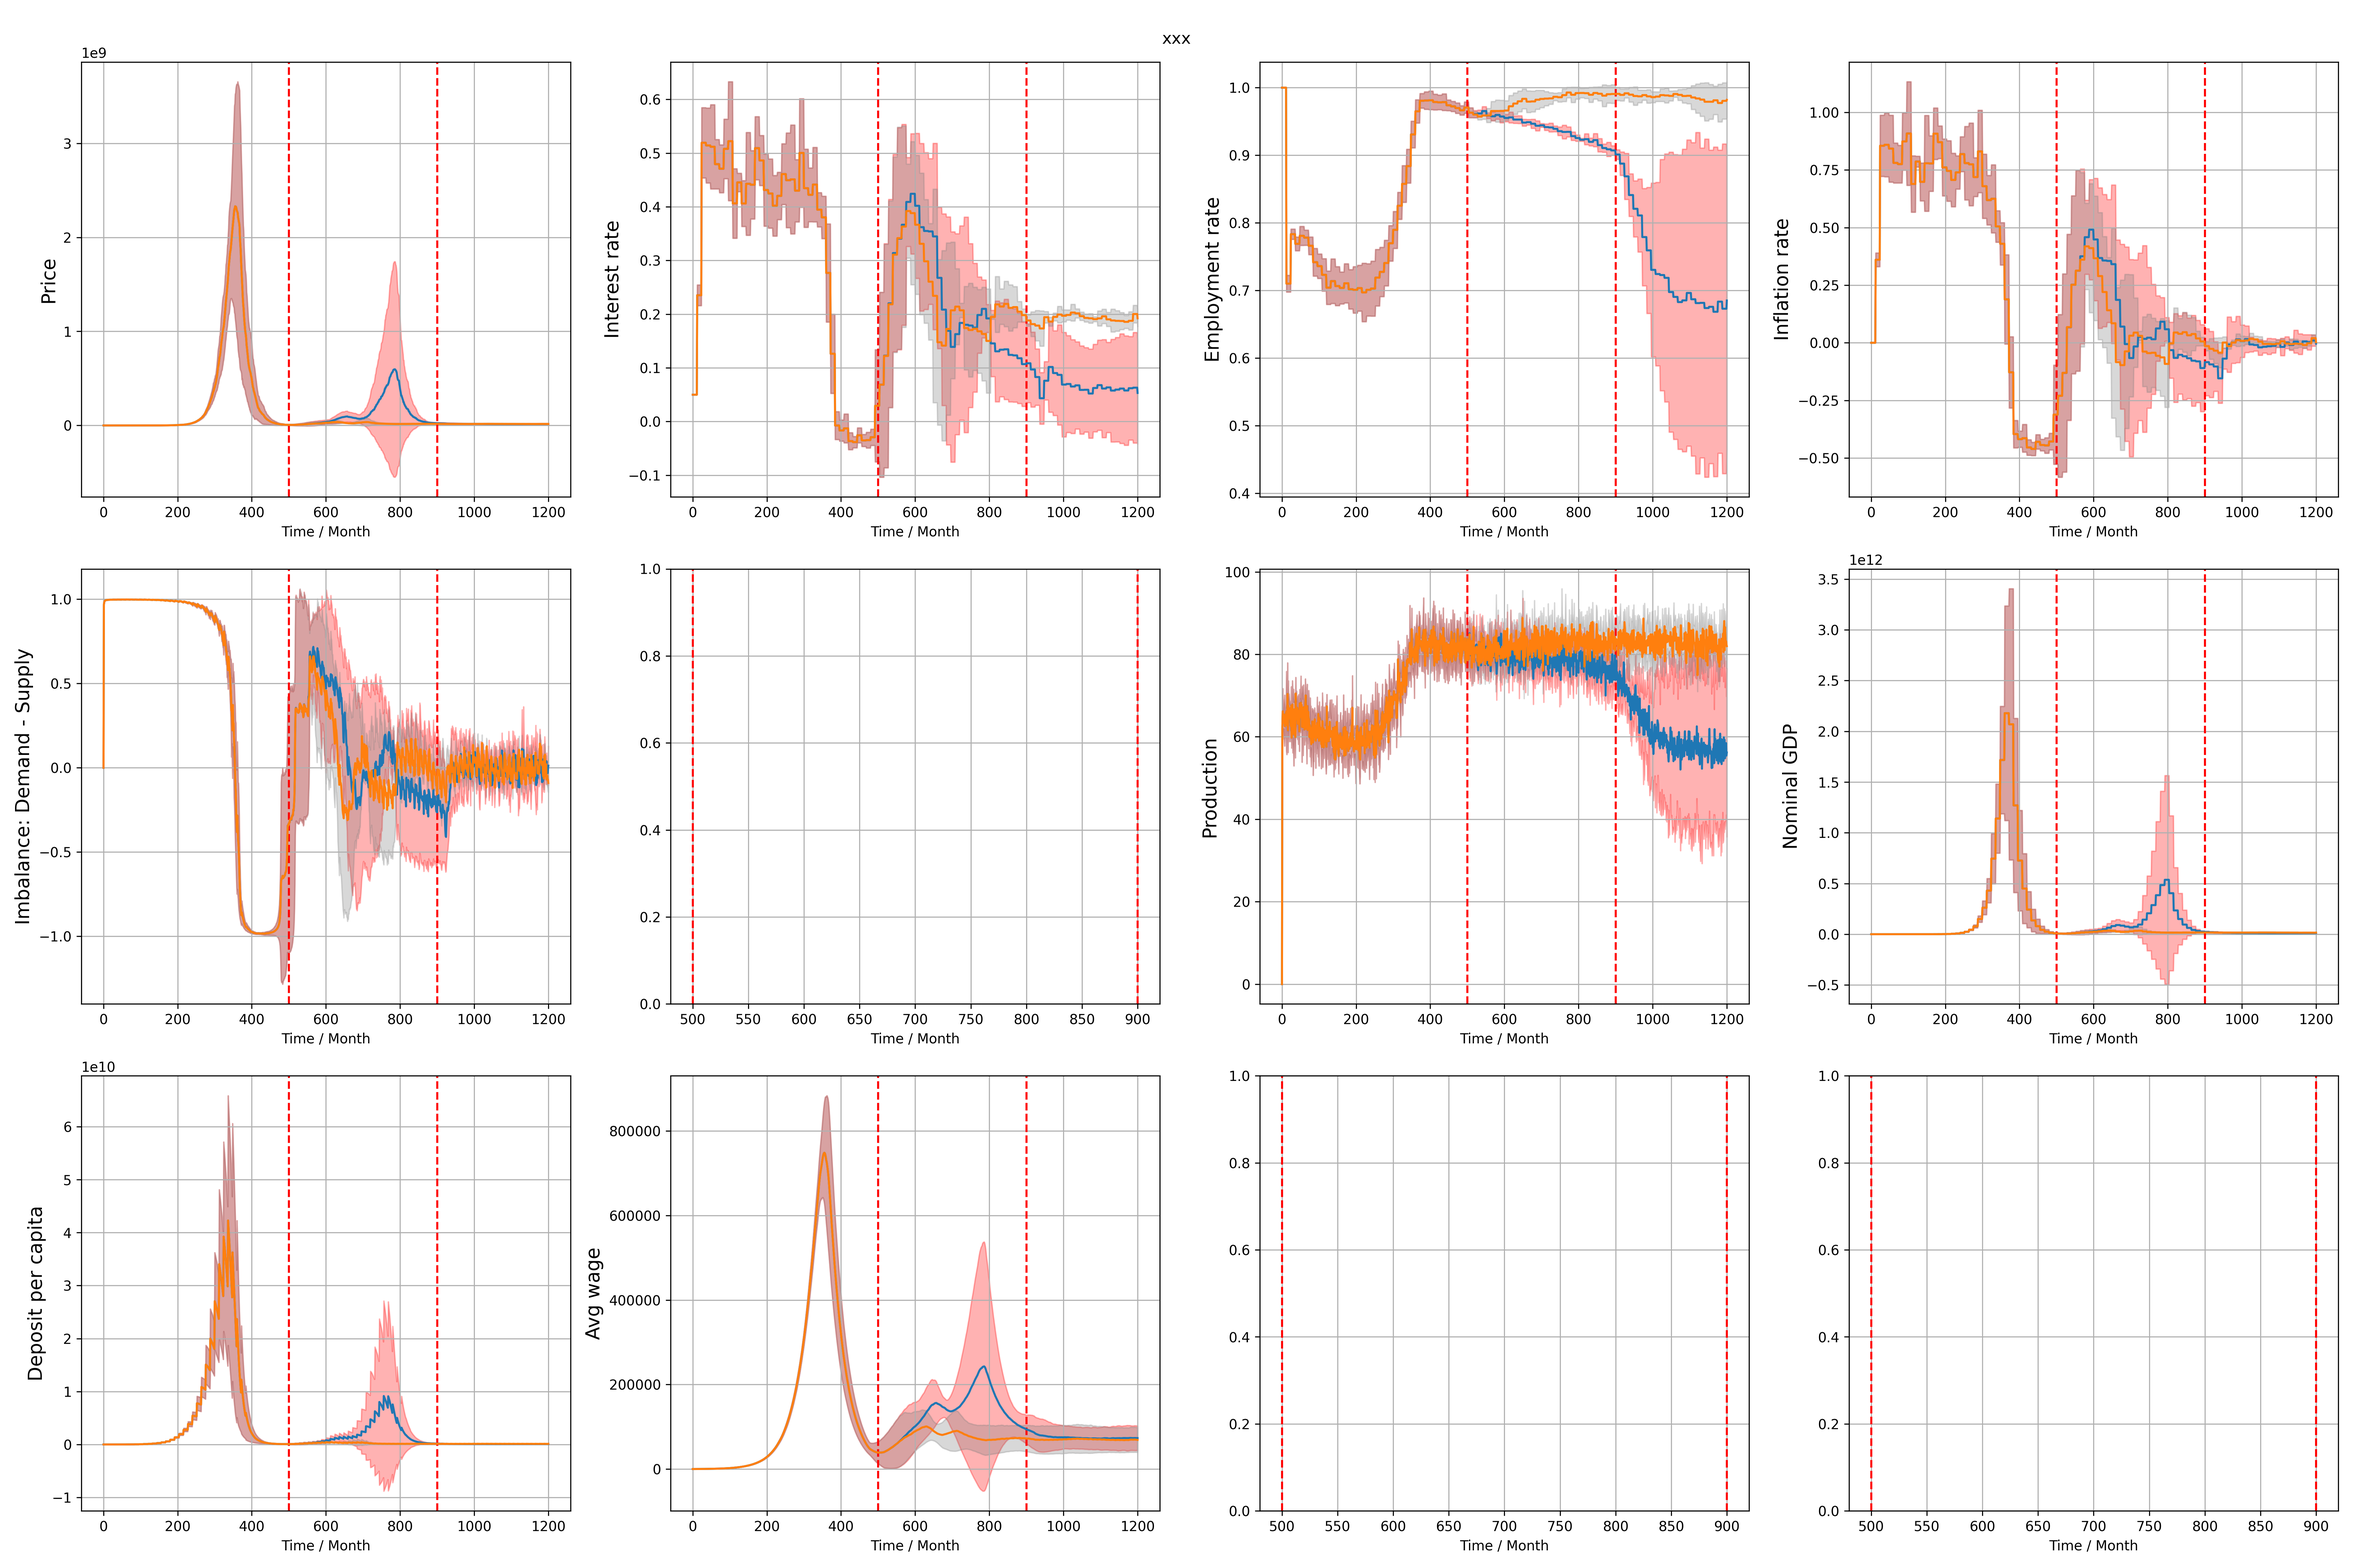
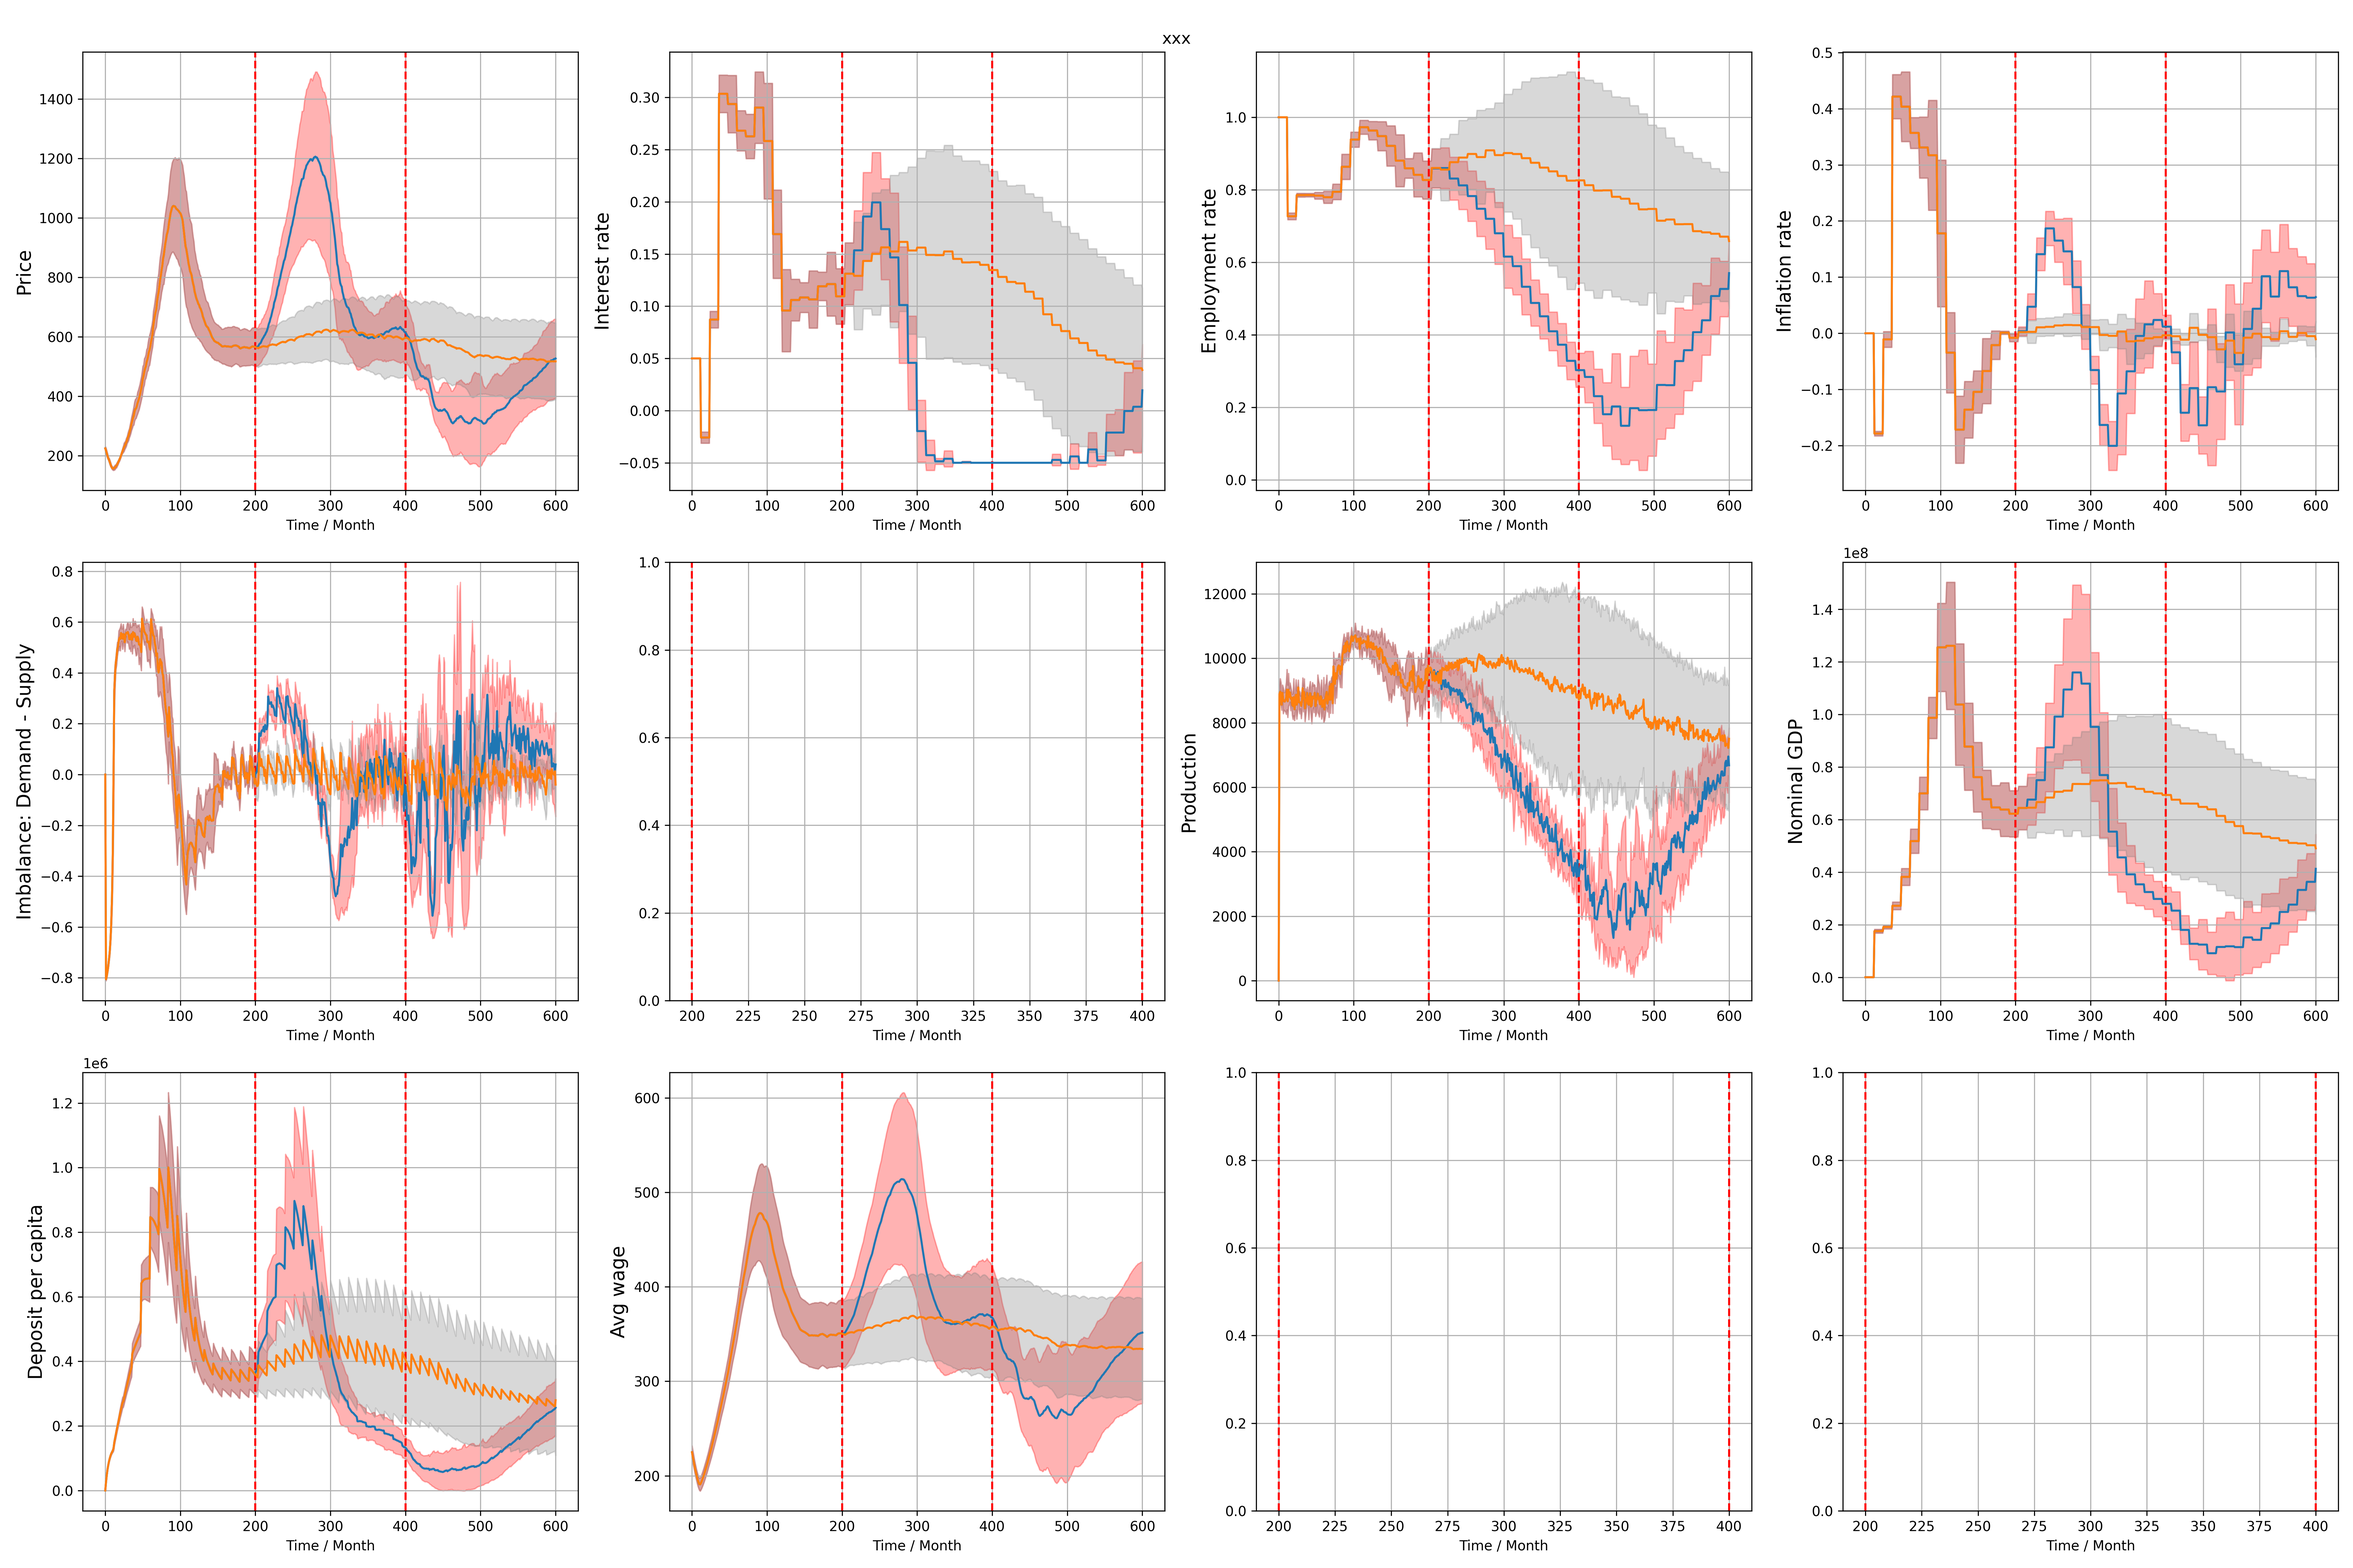
1

diff --git a/main.py b/main.py
@@ -78,21 +78,19 @@ def simulation(config:Configuration, event=False, intervention=False):
         #             work_state.append(a.l)
         
         if event:
-            if t == 500:
+            if t == 200:
                 a_pw = [a.pw for a in agents]
 
-            if t >= 500 and t <= 900:
+            if t >= 200 and t <= 400:
                 for a, pw in zip(agents, a_pw):
                     # a.pw = 0.1 ** (1/400) * a.pw # 在t=900时，就业意愿下降到t=500时的25%
-                    a.pw = (0.5 ** (1/(900-500))) ** (t-500) * pw
+                    a.pw = (0.2 ** (1/(400-200))) ** (t-200) * pw
             work_state = [a.work_decision() for a in agents] # work decision
         else:
             work_state = [a.work_decision() for a in agents] # work decision
         ################ 事 件 结 束 ################
         
-        
         production = F.produce(agents) # production
-        
         
         wages = F.pay_wage(agents)
         taxes = taxation(wages)
@@ -103,8 +101,8 @@ def simulation(config:Configuration, event=False, intervention=False):
             # print(t, a.id, w, sum(taxes), w + sum(taxes)/config.num_agents)
             
             ################ 干 预 开 始 ################
-            if t >= 550 and t <= 900 and intervention:
-                B.deposit(a.id, w + sum(taxes)/config.num_agents + 0.01*B.deposits[a.id]) # redistribution
+            if t >= 200 and t <= 400 and intervention:
+                B.deposit(a.id, w + sum(taxes)/config.num_agents + 0.02*B.deposits[a.id]) # redistribution
             else:
                 B.deposit(a.id, w + sum(taxes)/config.num_agents) # redistribution
             ################ 干 预 结 束 ################
@@ -196,7 +194,7 @@ if __name__ == '__main__':
         log = simulation(config, event=False, intervention=False)
         logs_no_event.append(log)
         
-    plot_bar('bar-event-intervention.png', logs, logs_no_event, config)
+    plot_bar('./figs/bar-event-intervention.png', logs, logs_no_event, config)
     
     config.seed = 123456
     logs, logs_no_event = [], []
@@ -208,7 +206,7 @@ if __name__ == '__main__':
         log = simulation(config, event=False, intervention=False)
         logs_no_event.append(log)
         
-    plot_bar('bar-event-no-intervention.png', logs, logs_no_event, config)
+    plot_bar('./figs/bar-event-no-intervention.png', logs, logs_no_event, config)
     
     config.seed = 123456
     logs, logs_no_event = [], []
@@ -220,6 +218,6 @@ if __name__ == '__main__':
         log = simulation(config, event=False, intervention=False)
         logs_no_event.append(log)
         
-    plot_bar('bar-no-event-intervention.png', logs, logs_no_event, config)
+    plot_bar('./figs/bar-no-event-intervention.png', logs, logs_no_event, config)
     # log = simulation(config)
     # plot_log('log.png', log, config)

diff --git a/src/firm.py b/src/firm.py
@@ -1,6 +1,6 @@
 import random
 import numpy as np
-from agent import agent
+from src.agent import agent
 
 class firm:
     def __init__(self, A:float, alpha_w:float, alpha_p:float):
@@ -15,7 +15,8 @@ class firm:
         production of essential goods
         '''
         # random production
-        production = sum([168 * self.A * (1 + random.random() * 0.05) for a in agent_list if a.l==1])
+        workers = sum([a.l for a in agent_list])
+        production = 168 * self.A * (1 + random.random() * 0.05) * (workers**0.9)
         # for a in agent_list:
         #     if a.l == 1: production += 168 * self.A
         self.G += production

diff --git a/utils.py b/utils.py
@@ -75,8 +75,8 @@ def plot_bar(img_name:str, logs:list[dict], logs_compare:list[dict], config:Conf
     for i in range(3):
         for j in range(4):
             axs[i, j].set_xlabel('Time / Month'); axs[i, j].grid()
-            axs[i, j].axvline(x=500, color='r', linestyle='--')
-            axs[i, j].axvline(x=900, color='r', linestyle='--')
+            axs[i, j].axvline(x=200, color='r', linestyle='--')
+            axs[i, j].axvline(x=400, color='r', linestyle='--')
             
     
     prices = np.array([[log[key]['price'] for key in log.keys()] for log in logs])

diff --git a/config.py b/config.py
@@ -4,8 +4,8 @@ class Configuration:
     ##           仿 真 参 数           ##
     #####################################
     seed = int(time()) # 123
-    num_agents = 200
-    num_time_steps = 12 * 100
+    num_agents = 100
+    num_time_steps = 12 * 50
     
     
     #####################################

diff --git a/src/bank.py b/src/bank.py
@@ -1,4 +1,4 @@
-from agent import agent
+from src.agent import agent
 
 class bank:
     '''
